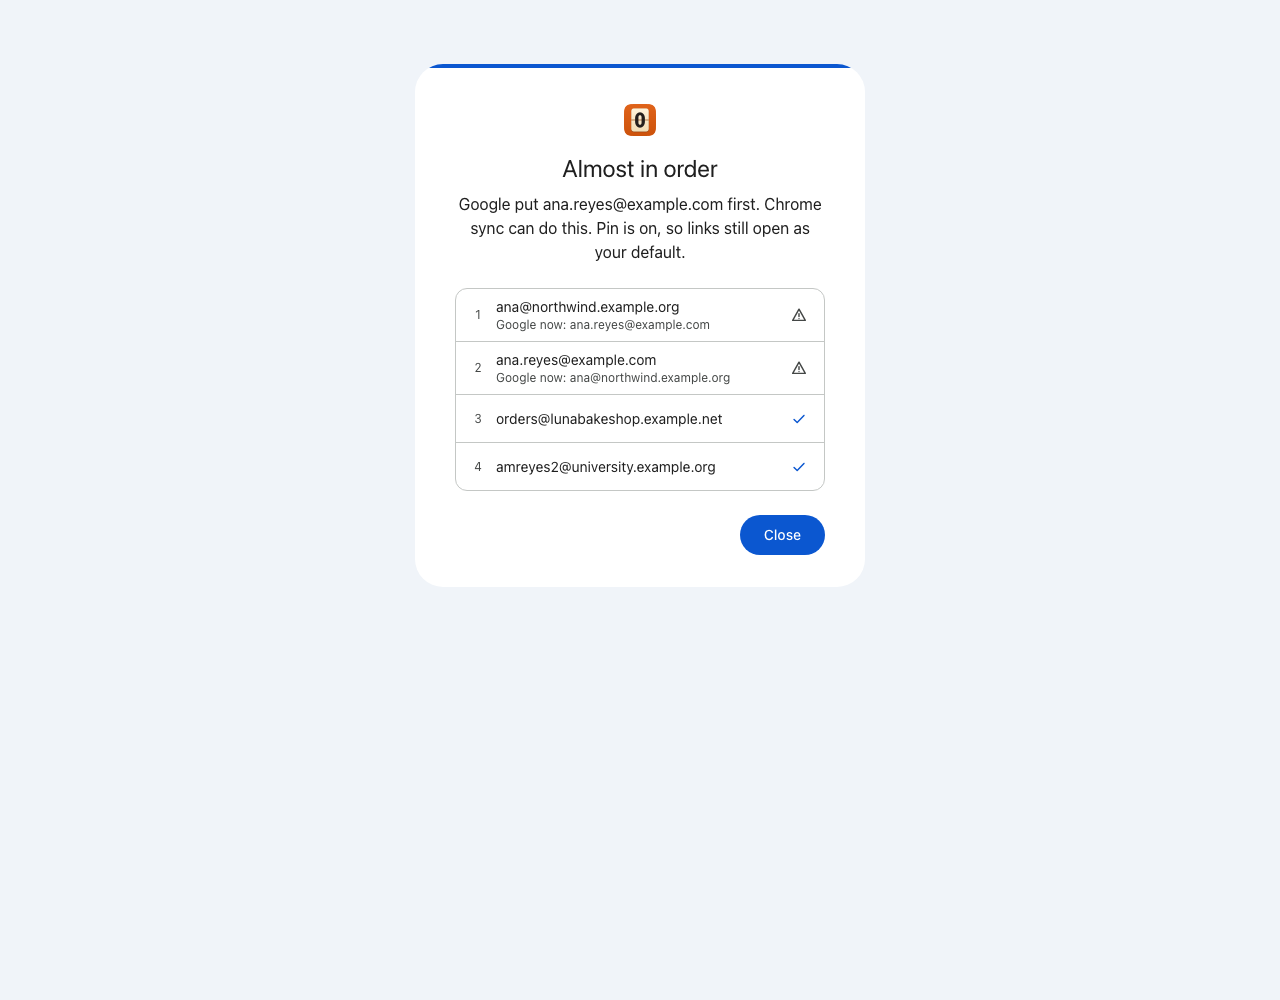
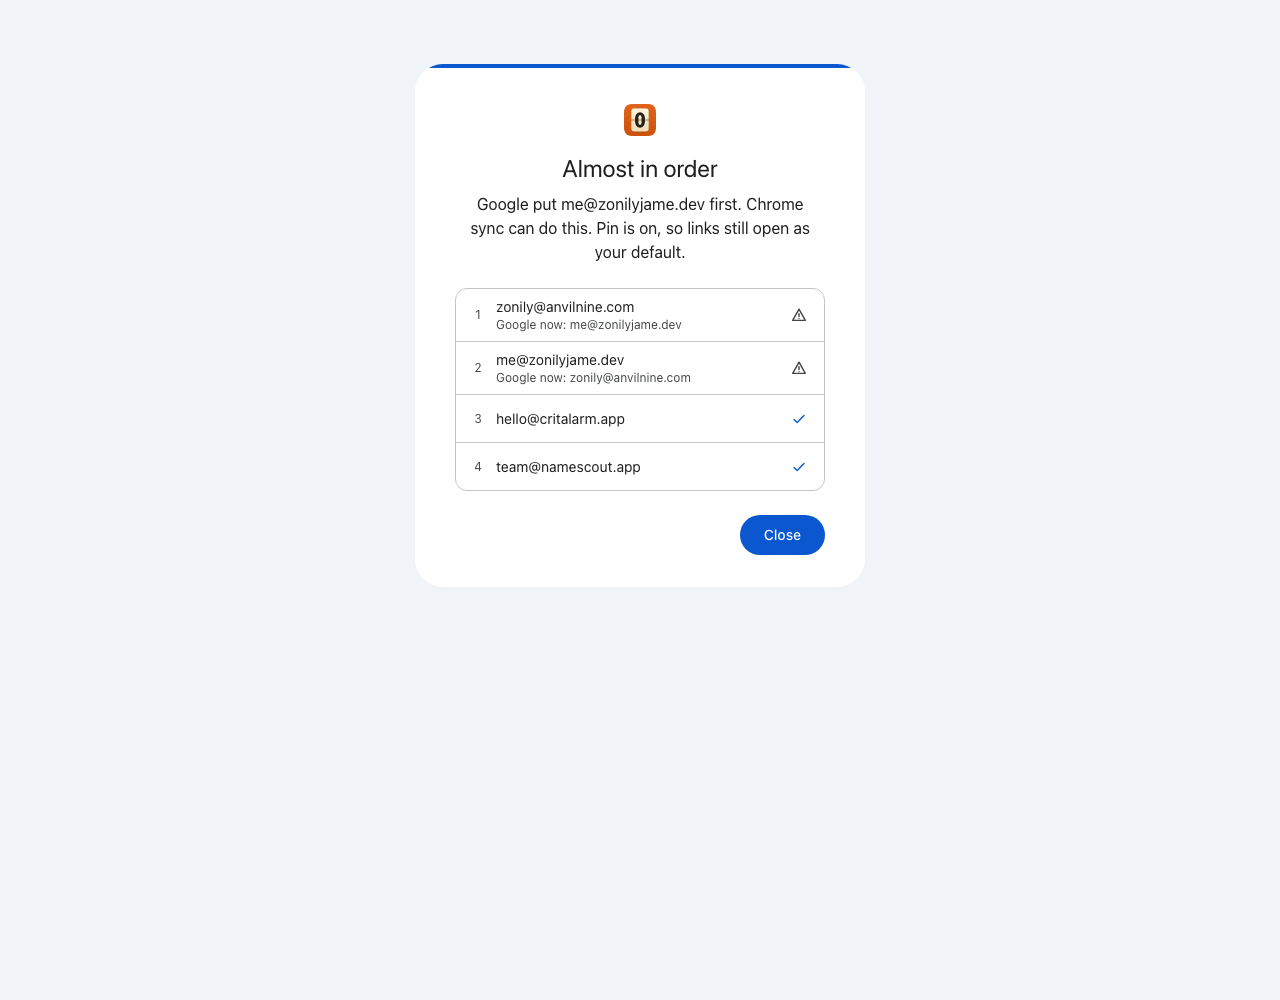
docs: store slides, promo tile and demo data on owned domains
Five 1280x800 store screenshots with captions and the 440x280 promo
tile, plus their sources. Demo accounts now use anvilnine.com,
critalarm.app, namescout.app and zonilyjame.dev.

Changed region(s): [[0.375, 0.279, 0.5625, 0.434], [0.3438, 0.186, 0.625, 0.217], [0.375, 0.465, 0.5625, 0.496]]

diff --git a/docs/store/source/slides.html b/docs/store/source/slides.html
@@ -1,0 +1,186 @@
+<!doctype html>
+<html lang="en">
+<head>
+<meta charset="utf-8">
+<style>
+  :root {
+    --bg: #f7f3ee; --ink: #1f1f1f; --muted: #5f6368; --line: #e6dfd6;
+    --orange: #d9541e; --orange-soft: #fbe3d6; --card: #ffffff;
+  }
+  * { box-sizing: border-box; margin: 0; padding: 0; }
+  html, body { width: 1280px; height: 800px; overflow: hidden; }
+  body {
+    background: var(--bg); color: var(--ink);
+    font-family: -apple-system, BlinkMacSystemFont, "SF Pro Display", "Segoe UI", Roboto, sans-serif;
+    -webkit-font-smoothing: antialiased;
+  }
+  .slide { display: none; position: relative; width: 1280px; height: 800px; }
+  .slide.on { display: flex; align-items: center; }
+  .copy { width: 520px; padding-left: 96px; }
+  .brand { display: flex; align-items: center; gap: 12px; margin-bottom: 40px; color: var(--muted); font-size: 18px; font-weight: 500; }
+  .brand img { width: 36px; height: 36px; }
+  h1 { font-size: 54px; line-height: 1.08; font-weight: 650; letter-spacing: -1.2px; }
+  h1 em { font-style: normal; color: var(--orange); }
+  p.sub { margin-top: 22px; font-size: 21px; line-height: 1.45; color: var(--muted); max-width: 400px; }
+  .stage { flex: 1; height: 100%; position: relative; display: flex; align-items: center; justify-content: center; }
+  .shot { border-radius: 18px; overflow: hidden; background: var(--card);
+    box-shadow: 0 1px 2px rgba(60,40,20,.08), 0 18px 48px rgba(60,40,20,.14); }
+  .shot img { display: block; width: 100%; }
+
+  /* 1: popup */
+  .s1 .light { width: 360px; position: relative; z-index: 2; }
+  .s1 .dark { width: 320px; position: absolute; right: 70px; top: 150px; opacity: .95; transform: rotate(3deg); }
+  .s1 .light { margin-right: 150px; }
+
+  /* 2: links */
+  .bars { width: 600px; display: flex; flex-direction: column; gap: 18px; align-items: stretch; }
+  .from { font-size: 15px; color: var(--muted); font-weight: 500; letter-spacing: .2px; padding-left: 6px; }
+  .bar { display: flex; align-items: center; gap: 14px; height: 64px; padding: 0 24px; border-radius: 32px; background: var(--card);
+    font: 500 23px/1 ui-monospace, "SF Mono", Menlo, monospace; color: var(--ink);
+    box-shadow: 0 1px 2px rgba(60,40,20,.08), 0 10px 28px rgba(60,40,20,.10); }
+  .bar.before { color: var(--muted); }
+  .bar .lock { width: 18px; height: 18px; border-radius: 50%; background: var(--line); flex: none; }
+  .bar b { color: var(--orange); font-weight: 600; }
+  .arrow { align-self: center; width: 2px; height: 34px; background: var(--line); position: relative; }
+  .arrow::after { content: ""; position: absolute; left: -7px; bottom: -2px; border: 8px solid transparent; border-top-color: #cfc6ba; border-bottom: 0; }
+  .who { display: flex; align-items: center; gap: 12px; align-self: flex-end; margin-top: 6px; padding: 10px 18px 10px 10px; border-radius: 28px; background: var(--card);
+    box-shadow: 0 1px 2px rgba(60,40,20,.08), 0 10px 28px rgba(60,40,20,.10); font-size: 17px; }
+  .avatar { width: 36px; height: 36px; border-radius: 50%; display: grid; place-items: center; font-weight: 600; background: #dbe7fb; color: #1b4fb8; }
+  .who small { display: block; color: var(--muted); font-size: 14px; margin-top: 2px; }
+  .chip { margin-left: 6px; padding: 3px 10px; border-radius: 12px; background: var(--orange-soft); color: var(--orange); font-size: 14px; font-weight: 600; }
+
+  /* 3: per app */
+  .s3 .shot { width: 560px; height: 560px; }
+  .s3 .shot img { width: 560px; }
+
+  /* 4: reorder */
+  .browser { width: 700px; height: 600px; border-radius: 16px; background: var(--card); display: flex; overflow: hidden;
+    box-shadow: 0 1px 2px rgba(60,40,20,.08), 0 18px 48px rgba(60,40,20,.14); }
+  .page { flex: 1; display: flex; flex-direction: column; border-right: 1px solid var(--line); }
+  .chrome { height: 44px; border-bottom: 1px solid var(--line); display: flex; align-items: center; gap: 8px; padding: 0 16px; }
+  .chrome i { width: 10px; height: 10px; border-radius: 50%; background: var(--line); }
+  .chrome span { margin-left: 12px; flex: 1; height: 24px; border-radius: 12px; background: #f3efe9; font: 12px/24px ui-monospace, Menlo, monospace; color: var(--muted); padding-left: 12px; }
+  .signin { margin: 70px auto 0; width: 260px; display: flex; flex-direction: column; gap: 14px; }
+  .signin .t { height: 16px; width: 120px; border-radius: 8px; background: #ece6de; }
+  .signin .t2 { height: 12px; width: 190px; border-radius: 6px; background: #f1ece5; }
+  .field { margin-top: 18px; height: 46px; border: 1.5px solid #cfc6ba; border-radius: 8px; padding: 0 14px; font-size: 15px; line-height: 43px; color: var(--ink); }
+  .field.pw { color: #b8b0a6; letter-spacing: 3px; margin-top: 0; }
+  .btn { align-self: flex-end; margin-top: 12px; width: 92px; height: 38px; border-radius: 19px; background: #ece6de; }
+  .panel { width: 300px; overflow: hidden; }
+  .panel img { width: 300px; display: block; }
+
+  /* 5: privacy */
+  .s5 .copy { width: 640px; }
+  .bigicon { width: 300px; height: 300px; border-radius: 66px; box-shadow: 0 24px 60px rgba(120,50,10,.25); }
+  .points { margin-top: 34px; display: flex; flex-direction: column; gap: 16px; }
+  .point { display: flex; align-items: center; gap: 14px; font-size: 21px; }
+  .tick { width: 30px; height: 30px; border-radius: 50%; background: var(--orange-soft); display: grid; place-items: center; flex: none; }
+  .tick::after { content: ""; width: 10px; height: 5px; border-left: 2.5px solid var(--orange); border-bottom: 2.5px solid var(--orange); transform: translateY(-2px) rotate(-45deg); }
+  .foot { position: absolute; left: 96px; bottom: 36px; font-size: 13px; color: #9a9187; }
+
+  /* promo 440x280 */
+  .promo { display: none; width: 440px; height: 280px; align-items: center; gap: 22px; padding: 0 34px; background: var(--bg); }
+  .promo.on { display: flex; }
+  .promo img { width: 120px; height: 120px; border-radius: 27px; box-shadow: 0 12px 28px rgba(120,50,10,.22); }
+  .promo h2 { font-size: 34px; font-weight: 650; letter-spacing: -.6px; }
+  .promo p { margin-top: 8px; font-size: 16px; line-height: 1.35; color: var(--muted); }
+</style>
+</head>
+<body>
+
+<section class="slide s1" data-n="1">
+  <div class="copy">
+    <div class="brand"><img src="assets/icon.png" alt="">Lineup</div>
+    <h1>Your Google accounts, <em>in your order.</em></h1>
+    <p class="sub">Drag them into place. Give each one a label and a color.</p>
+  </div>
+  <div class="stage">
+    <div class="shot dark"><img src="assets/popup-dark.png" alt=""></div>
+    <div class="shot light"><img src="assets/popup.png" alt=""></div>
+  </div>
+</section>
+
+<section class="slide s2" data-n="2">
+  <div class="copy">
+    <div class="brand"><img src="assets/icon.png" alt="">Lineup</div>
+    <h1>Links open in <em>the right account.</em></h1>
+    <p class="sub">Pin your #1. Links from chat, email and bookmarks stop landing in the wrong inbox.</p>
+  </div>
+  <div class="stage">
+    <div class="bars">
+      <div class="from">A link from Slack</div>
+      <div class="bar before"><span class="lock"></span>mail.google.com/mail/</div>
+      <div class="arrow"></div>
+      <div class="bar"><span class="lock"></span><span>mail.google.com/mail<b>/u/1/</b></span></div>
+      <div class="who">
+        <div class="avatar">Z</div>
+        <div>zonily@anvilnine.com<small>Your #1 account</small></div>
+        <span class="chip">Work</span>
+      </div>
+    </div>
+  </div>
+</section>
+
+<section class="slide s3" data-n="3">
+  <div class="copy">
+    <div class="brand"><img src="assets/icon.png" alt="">Lineup</div>
+    <h1>One account <em>per app.</em></h1>
+    <p class="sub">Calendar in Work, YouTube in Personal. Lineup remembers each choice by email.</p>
+  </div>
+  <div class="stage">
+    <div class="shot"><img src="assets/pin.png" alt=""></div>
+  </div>
+</section>
+
+<section class="slide s4" data-n="4">
+  <div class="copy">
+    <div class="brand"><img src="assets/icon.png" alt="">Lineup</div>
+    <h1>Make Google's order <em>match yours.</em></h1>
+    <p class="sub">A side panel guides you: sign out once, then back in, one account at a time. You type every password.</p>
+  </div>
+  <div class="stage">
+    <div class="browser">
+      <div class="page">
+        <div class="chrome"><i></i><i></i><i></i><span>accounts.google.com</span></div>
+        <div class="signin">
+          <div class="t"></div><div class="t2"></div>
+          <div class="field">me@zonilyjame.dev</div>
+          <div class="field pw">••••••••••</div>
+          <div class="btn"></div>
+        </div>
+      </div>
+      <div class="panel"><img src="assets/panel.png" alt=""></div>
+    </div>
+  </div>
+</section>
+
+<section class="slide s5" data-n="5">
+  <div class="copy">
+    <div class="brand"><img src="assets/icon.png" alt="">Lineup</div>
+    <h1>Private <em>by design.</em></h1>
+    <div class="points">
+      <div class="point"><span class="tick"></span>No servers, no analytics, no tracking</div>
+      <div class="point"><span class="tick"></span>Never reads or stores your passwords</div>
+      <div class="point"><span class="tick"></span>Open source under GPL-3.0</div>
+      <div class="point"><span class="tick"></span>Chrome, Edge and Firefox</div>
+    </div>
+  </div>
+  <div class="stage"><img class="bigicon" src="assets/icon.png" alt=""></div>
+  <div class="foot">Not affiliated with or endorsed by Google.</div>
+</section>
+
+<section class="promo" data-n="promo">
+  <img src="assets/icon.png" alt="">
+  <div>
+    <h2>Lineup</h2>
+    <p>Your Google accounts,<br>in your order.</p>
+  </div>
+</section>
+
+<script>
+  const n = new URLSearchParams(location.search).get('n') || '1';
+  document.querySelector(`[data-n="${n}"]`).classList.add('on');
+  if (n === 'promo') { document.documentElement.style.width = document.body.style.width = '440px'; document.documentElement.style.height = document.body.style.height = '280px'; }
+</script>
+</body>
+</html>

diff --git a/src/lib/api.mock.ts b/src/lib/api.mock.ts
@@ -10,36 +10,36 @@ type Listener = (s: AppState) => void;
 
 const ACCOUNTS: Account[] = [
   {
-    email: 'ana.reyes@example.com',
-    name: 'Ana Reyes',
+    email: 'me@zonilyjame.dev',
+    name: 'Zonily Jame',
     photo: '',
     index: 0,
     signedOut: false,
   },
   {
-    email: 'ana@northwind.example.org',
-    name: 'Ana Reyes',
+    email: 'zonily@anvilnine.com',
+    name: 'Zonily Jame',
     photo: '',
     index: 1,
     signedOut: false,
   },
   {
-    email: 'orders@lunabakeshop.example.net',
-    name: 'Luna Bakeshop',
+    email: 'hello@critalarm.app',
+    name: 'Crit Alarm',
     photo: '',
     index: 2,
     signedOut: false,
   },
   {
-    email: 'amreyes2@university.example.org',
-    name: 'Ana Marie Reyes',
+    email: 'team@namescout.app',
+    name: 'Namescout',
     photo: '',
     index: 3,
     signedOut: false,
   },
   {
-    email: 'ana.reyes.old@example.com',
-    name: 'Ana Reyes',
+    email: 'old@zonilyjame.dev',
+    name: 'Zonily Jame',
     photo: '',
     index: -1,
     signedOut: true,
@@ -48,20 +48,20 @@ const ACCOUNTS: Account[] = [
 
 const PREFS: Prefs = {
   order: [
-    'ana@northwind.example.org',
-    'ana.reyes@example.com',
-    'orders@lunabakeshop.example.net',
-    'amreyes2@university.example.org',
-    'ana.reyes.old@example.com',
+    'zonily@anvilnine.com',
+    'me@zonilyjame.dev',
+    'hello@critalarm.app',
+    'team@namescout.app',
+    'old@zonilyjame.dev',
   ],
   meta: {
-    'ana@northwind.example.org': { label: 'Work', color: 'blue' },
-    'ana.reyes@example.com': { label: 'Personal', color: 'green' },
-    'orders@lunabakeshop.example.net': { label: 'Bakeshop', color: 'amber' },
-    'amreyes2@university.example.org': { label: 'School', color: 'violet' },
+    'zonily@anvilnine.com': { label: 'Work', color: 'blue' },
+    'me@zonilyjame.dev': { label: 'Personal', color: 'green' },
+    'hello@critalarm.app': { label: 'Support', color: 'orange' },
+    'team@namescout.app': { label: 'Team', color: 'violet' },
   },
   pinEnabled: true,
-  serviceDefaults: { youtube: 'ana.reyes@example.com', photos: 'ana.reyes@example.com' },
+  serviceDefaults: { youtube: 'me@zonilyjame.dev', photos: 'me@zonilyjame.dev' },
   disabledServices: ['maps'],
 };
 
@@ -165,7 +165,7 @@ function presetWizard(): WizardState | null {
         current: 1,
         completed: [queue[0]!],
         tabId: 7,
-        error: 'You signed in as amreyes2@university.example.org.',
+        error: 'You signed in as team@namescout.app.',
       };
     case 'tab-closed':
       return { ...base, phase: 'error', errorKind: 'tab-closed', current: 1, completed: [queue[0]!], error: 'The Google tab was closed.' };
@@ -222,7 +222,7 @@ async function handle(req: Request): Promise<unknown> {
     case 'activeTabService':
       return tabNone
         ? { serviceId: null, email: null }
-        : { serviceId: 'gmail', email: 'ana.reyes@example.com' };
+        : { serviceId: 'gmail', email: 'me@zonilyjame.dev' };
     case 'wizardOpen': {
       const cur = state.wizard;
       if (cur && (cur.phase === 'signing-out' || cur.phase === 'signing-in' || cur.phase === 'error')) return clone(cur);

diff --git a/docs/store/README.md b/docs/store/README.md
@@ -1,0 +1,8 @@
+# Store images
+
+- `slide-1.png` … `slide-5.png`: store screenshots, 1280×800.
+- `promo-440x280.png`: Chrome Web Store small promo tile.
+
+To rebuild: `pnpm build:preview`, serve `.output/chrome-mv3-preview`, run `source/store-shots.mjs <url> source/assets` (Playwright), then serve `source/` and run `source/store-render.mjs <url> <out>`. Renders are made at 2× and downscaled to the exact store size.
+
+Demo accounts use the maintainer's own domains (anvilnine.com, critalarm.app, namescout.app, zonilyjame.dev).
